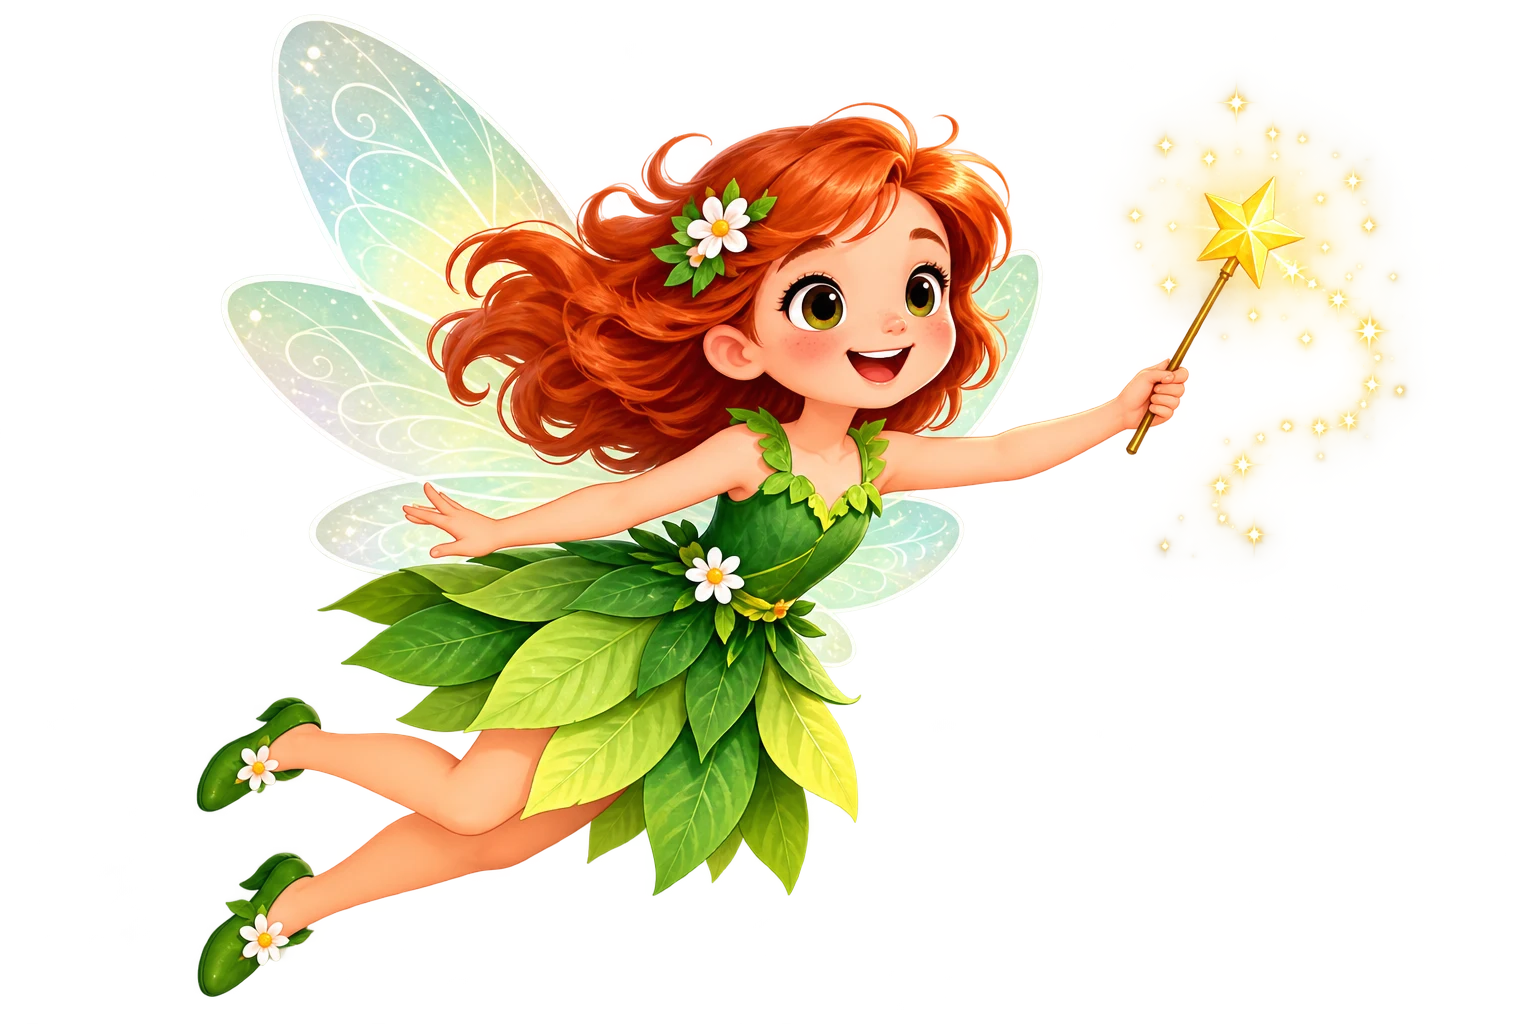
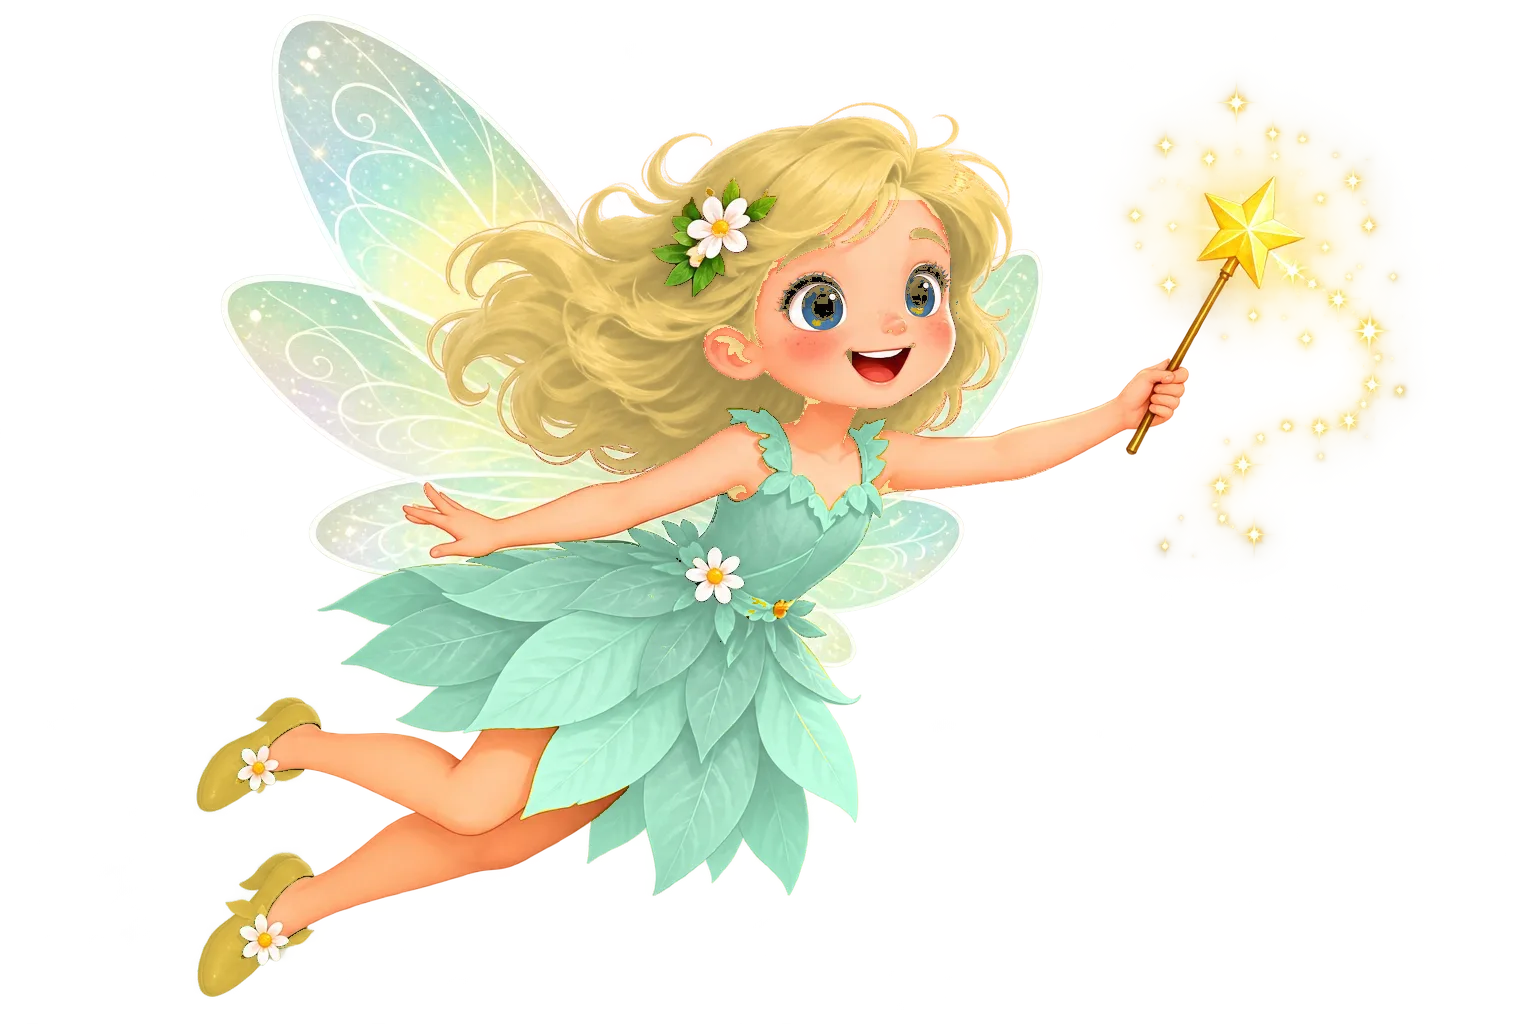
feat(art): make the fairy look like our daughter
Recolor the fairy sprite and the fairyland illustration so the hero has
light golden-blonde hair, blue-grey eyes, a pale mint leaf dress and gold
slippers instead of copper-red hair and a green outfit. Wings, wand, pose
and daisies stay as they were. Record the revision in the image sidecars
and update the design reference accordingly.

Changed region(s): [[0.2188, 0.0938, 0.6562, 0.875], [0.125, 0.8125, 0.2188, 0.9688], [0.125, 0.6875, 0.2188, 0.8125]]

diff --git a/DESIGN.md b/DESIGN.md
@@ -49,9 +49,9 @@ components:
 
 ## Overview
 
-A calm, welcoming fairyland for children's growing number discoveries. Preserve the approved illustrated Home direction: red-haired fairy, green leaf dress, translucent wings, golden star wand, friendly rounded Fredoka lettering, blue text, cream/pastel surfaces and pink next actions.
+A calm, welcoming fairyland for children's growing number discoveries. Preserve the approved illustrated Home direction: blonde fairy with blue-grey eyes, pale mint leaf dress, gold slippers, translucent wings, golden star wand, friendly rounded Fredoka lettering, blue text, cream/pastel surfaces and pink next actions.
 
-The visual reference is [the existing fairyland illustration](public/images/feenland.webp). Reuse it across Home, map, world, chapter, completion and Settings. New poses must preserve hair color and shape, leaf outfit, wing construction, wand and proportions. Helpful pointing, a welcoming wave and a gentle celebration are suitable future variants; avoid changing the character between screens. Never use expression or motion alone to communicate success or a gate.
+The visual reference is [the existing fairyland illustration](public/images/feenland.webp). Reuse it across Home, map, world, chapter, completion and Settings. The fairy is modelled on the owner's daughter: light golden-blonde hair, blue-grey eyes, a pale mint dress and gold shoes. New poses must preserve hair color, eye color, the mint leaf outfit, gold slippers, wing construction, wand and proportions. Helpful pointing, a welcoming wave and a gentle celebration are suitable future variants; avoid changing the character between screens. Never use expression or motion alone to communicate success or a gate.
 
 ## Colors
 

diff --git a/PRODUCT.md b/PRODUCT.md
@@ -1,6 +1,6 @@
 # Feenland Mathezauber
 
-A touch-first math adventure for children, with responsive phone, tablet and desktop layouts. The user-approved reference is a fairyland with a red-haired fairy, green leaf dress, cream surfaces, dark blue text and pink primary actions. Keep artwork simple in the first delivery.
+A touch-first math adventure for children, with responsive phone, tablet and desktop layouts. The user-approved reference is a fairyland with a blonde, blue-eyed fairy in a pale mint leaf dress and gold slippers, cream surfaces, dark blue text and pink primary actions. Keep artwork simple in the first delivery.
 
 The Home screen offers Continue/Start, Explore Worlds, a Fairy games hub that opens the castle, the crocodile and the magic walls with one tap, cumulative achievements and a Settings gear. Launch languages are en/de/es/fr; language selection lives in Settings. Content follows World → Chapter → Level → Challenge with stable IDs. Progress stays locally and earned accomplishments survive catalog growth. All old unicorn, berry and number-bridge content is removed by explicit user request.
 
